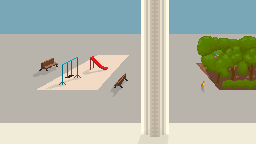
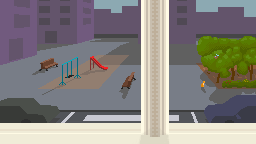
image pixelation fixes

diff --git a/writting-simulator.html b/writting-simulator.html
@@ -33,6 +33,14 @@
     tr {
       vertical-align: top;
     }
+    canvas {
+    /* 
+      image-rendering: crisp-edges;
+      image-rendering: -moz-crisp-edges;
+      image-rendering: -webkit-crisp-edges;*/
+      image-rendering: pixelated;
+      /*image-rendering: crisp-edges;*/
+    } 
   </style>
 </head>
 
@@ -124,7 +132,7 @@
       },
       {
         name: "park", room: "window", isRoom: false, layer: 50
-        , size: { posX: 0.14589803375031543, posY: 0.38196601125010515, width: 0.40983005625052576, height: 0.2360679774997897 }
+        , size: { posX: 0.14589803375031543, posY: 0.38196601125010515, width: 0.38196601125010515, height: 0.2360679774997897 }
       },
       {
         name: "mainRoom", room: "window", isRoom: true, layer: 30
@@ -199,6 +207,7 @@
 
     const mainCanvas = document.getElementById("mainCanvas");
     const mainCtx = mainCanvas.getContext("2d");
+    mainCtx.imageSmoothingEnabled = false;
     mainCanvas.height = 480;
     mainCanvas.width = mainCanvas.height * 16 / 9.0;  // panoramic 16:9
     const pageHeight = mainCanvas.height * 3 / 4.0
